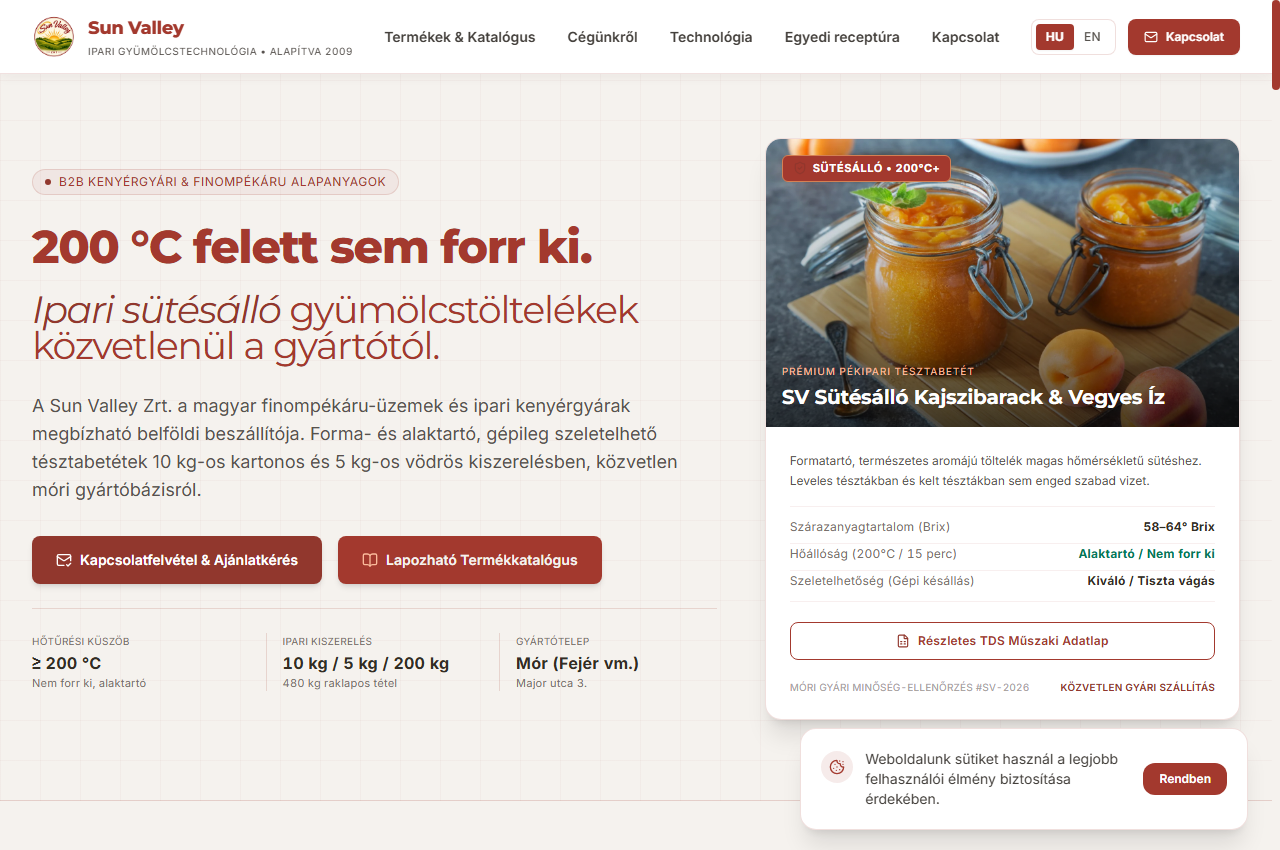
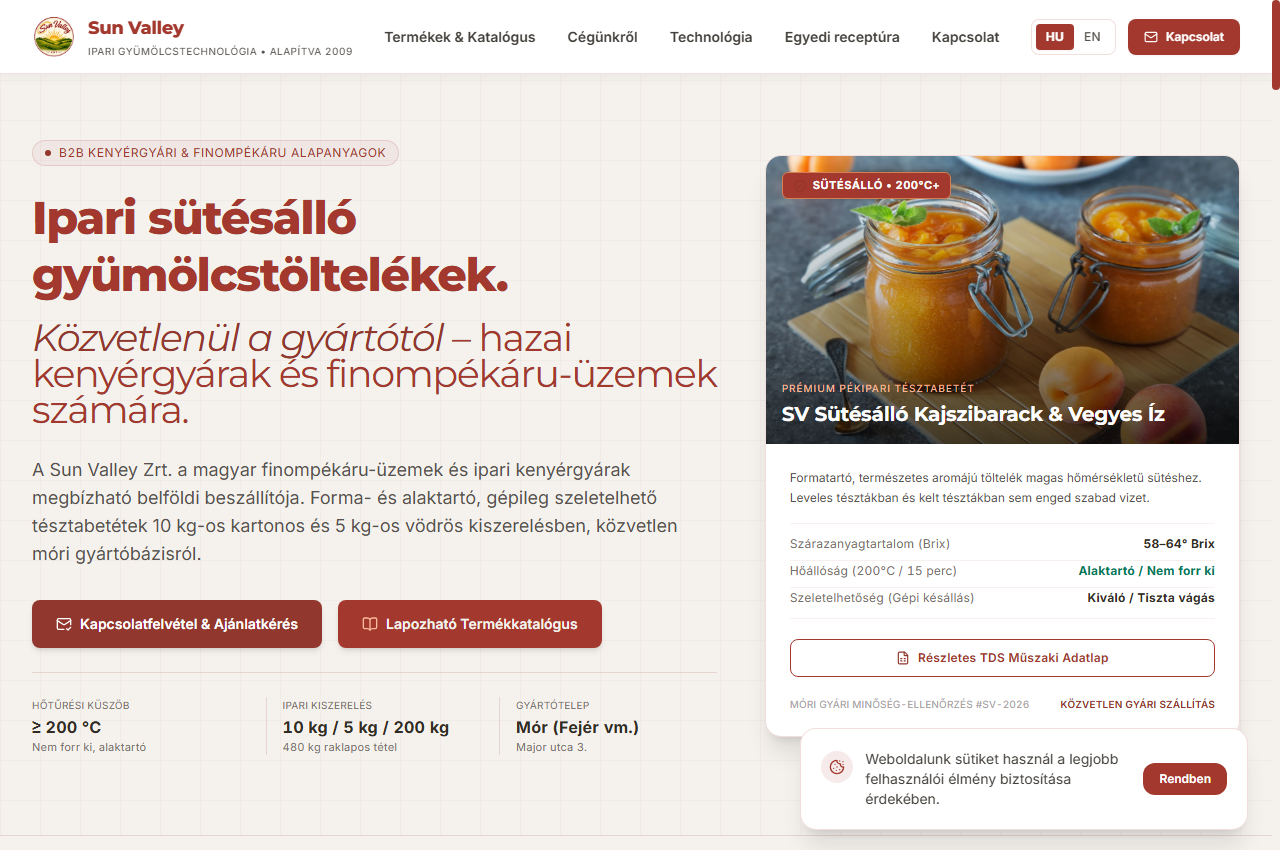
feat(hero): rewrite opening headline to lead with industrial fruit fillings directly from manufacturer

diff --git a/index.html b/index.html
@@ -385,10 +385,10 @@
           <!-- Headline -->
           <h1 class="font-montserrat font-extrabold text-2xl xs:text-3xl sm:text-4xl lg:text-[2.5rem] xl:text-[2.85rem] tracking-tight pb-1 break-words"
               style="color: var(--sv-burgundy);">
-            <span class="block mb-3.5 sm:mb-4 leading-snug sm:leading-tight" data-i18n="hero_h1_p1">200 °C felett sem forr ki.</span>
+            <span class="block mb-3.5 sm:mb-4 leading-snug sm:leading-tight" data-i18n="hero_h1_p1">Ipari sütésálló gyümölcstöltelékek.</span>
             <span class="block font-normal text-xl xs:text-2xl sm:text-3xl lg:text-[2.05rem] xl:text-[2.35rem] leading-snug" style="color: var(--sv-burgundy);">
-              <span class="italic font-normal" style="color: var(--sv-orange);" data-i18n="hero_h1_p2">Ipari sütésálló</span> 
-              <span data-i18n="hero_h1_p3">gyümölcstöltelékek közvetlenül a gyártótól.</span>
+              <span class="italic font-normal" style="color: var(--sv-orange);" data-i18n="hero_h1_p2">Közvetlenül a gyártótól</span> 
+              <span data-i18n="hero_h1_p3">– hazai kenyérgyárak és finompékáru-üzemek számára.</span>
             </span>
           </h1>
 
@@ -1581,9 +1581,9 @@
         hero_cta_sample: "Kapcsolatfelvétel & Ajánlatkérés",
         hero_desc: "A Sun Valley Zrt. a magyar finompékáru-üzemek és ipari kenyérgyárak megbízható belföldi beszállítója. Forma- és alaktartó, gépileg szeletelhető tésztabetétek 10 kg-os kartonos és 5 kg-os vödrös kiszerelésben, közvetlen móri gyártóbázisról.",
         hero_direct_badge: "KÖZVETLEN GYÁRI SZÁLLÍTÁS",
-        hero_h1_p1: "200 °C felett sem forr ki.",
-        hero_h1_p2: "Ipari sütésálló",
-        hero_h1_p3: "gyümölcstöltelékek közvetlenül a gyártótól.",
+        hero_h1_p1: "Ipari sütésálló gyümölcstöltelékek.",
+        hero_h1_p2: "Közvetlenül a gyártótól",
+        hero_h1_p3: "– hazai kenyérgyárak és finompékáru-üzemek számára.",
         hero_qc_badge: "MÓRI GYÁRI MINŐSÉG-ELLENŐRZÉS #SV-2026",
         link_google_maps: "Megtekintés Google Térképen",
         nav_catalog: "Termékkatalógus",
@@ -1779,9 +1779,9 @@
         hero_cta_sample: "Contact & Request Quote",
         hero_desc: "Sun Valley Zrt. is a proven supplier for industrial bread factories and commercial pastry plants. Shape-retaining, mechanically sliceable fruit fillings in 10 kg cartons and 5 kg buckets directly from our Mór facility.",
         hero_direct_badge: "DIRECT FACTORY SUPPLY",
-        hero_h1_p1: "No boil-out above 200 °C.",
-        hero_h1_p2: "Industrial bake-stable",
-        hero_h1_p3: "Fruit preparations directly from the manufacturer.",
+        hero_h1_p1: "Industrial bake-stable fruit fillings.",
+        hero_h1_p2: "Directly from the manufacturer",
+        hero_h1_p3: "– engineered for commercial bakeries and pastry plants.",
         hero_qc_badge: "MÓR FACTORY QC #SV-2026",
         link_google_maps: "View on Google Maps",
         nav_catalog: "Product Catalog",

diff --git a/scripts/compile_v2.py b/scripts/compile_v2.py
@@ -394,10 +394,10 @@ def generate_html():
           <!-- Headline -->
           <h1 class="font-montserrat font-extrabold text-2xl xs:text-3xl sm:text-4xl lg:text-[2.5rem] xl:text-[2.85rem] tracking-tight pb-1 break-words"
               style="color: var(--sv-burgundy);">
-            <span class="block mb-3.5 sm:mb-4 leading-snug sm:leading-tight" data-i18n="hero_h1_p1">200 °C felett sem forr ki.</span>
+            <span class="block mb-3.5 sm:mb-4 leading-snug sm:leading-tight" data-i18n="hero_h1_p1">Ipari sütésálló gyümölcstöltelékek.</span>
             <span class="block font-normal text-xl xs:text-2xl sm:text-3xl lg:text-[2.05rem] xl:text-[2.35rem] leading-snug" style="color: var(--sv-burgundy);">
-              <span class="italic font-normal" style="color: var(--sv-orange);" data-i18n="hero_h1_p2">Ipari sütésálló</span> 
-              <span data-i18n="hero_h1_p3">gyümölcstöltelékek közvetlenül a gyártótól.</span>
+              <span class="italic font-normal" style="color: var(--sv-orange);" data-i18n="hero_h1_p2">Közvetlenül a gyártótól</span> 
+              <span data-i18n="hero_h1_p3">– hazai kenyérgyárak és finompékáru-üzemek számára.</span>
             </span>
           </h1>
 
@@ -1590,9 +1590,9 @@ def generate_html():
         hero_cta_sample: "Kapcsolatfelvétel & Ajánlatkérés",
         hero_desc: "A Sun Valley Zrt. a magyar finompékáru-üzemek és ipari kenyérgyárak megbízható belföldi beszállítója. Forma- és alaktartó, gépileg szeletelhető tésztabetétek 10 kg-os kartonos és 5 kg-os vödrös kiszerelésben, közvetlen móri gyártóbázisról.",
         hero_direct_badge: "KÖZVETLEN GYÁRI SZÁLLÍTÁS",
-        hero_h1_p1: "200 °C felett sem forr ki.",
-        hero_h1_p2: "Ipari sütésálló",
-        hero_h1_p3: "gyümölcstöltelékek közvetlenül a gyártótól.",
+        hero_h1_p1: "Ipari sütésálló gyümölcstöltelékek.",
+        hero_h1_p2: "Közvetlenül a gyártótól",
+        hero_h1_p3: "– hazai kenyérgyárak és finompékáru-üzemek számára.",
         hero_qc_badge: "MÓRI GYÁRI MINŐSÉG-ELLENŐRZÉS #SV-2026",
         link_google_maps: "Megtekintés Google Térképen",
         nav_catalog: "Termékkatalógus",
@@ -1788,9 +1788,9 @@ def generate_html():
         hero_cta_sample: "Contact & Request Quote",
         hero_desc: "Sun Valley Zrt. is a proven supplier for industrial bread factories and commercial pastry plants. Shape-retaining, mechanically sliceable fruit fillings in 10 kg cartons and 5 kg buckets directly from our Mór facility.",
         hero_direct_badge: "DIRECT FACTORY SUPPLY",
-        hero_h1_p1: "No boil-out above 200 °C.",
-        hero_h1_p2: "Industrial bake-stable",
-        hero_h1_p3: "Fruit preparations directly from the manufacturer.",
+        hero_h1_p1: "Industrial bake-stable fruit fillings.",
+        hero_h1_p2: "Directly from the manufacturer",
+        hero_h1_p3: "– engineered for commercial bakeries and pastry plants.",
         hero_qc_badge: "MÓR FACTORY QC #SV-2026",
         link_google_maps: "View on Google Maps",
         nav_catalog: "Product Catalog",
